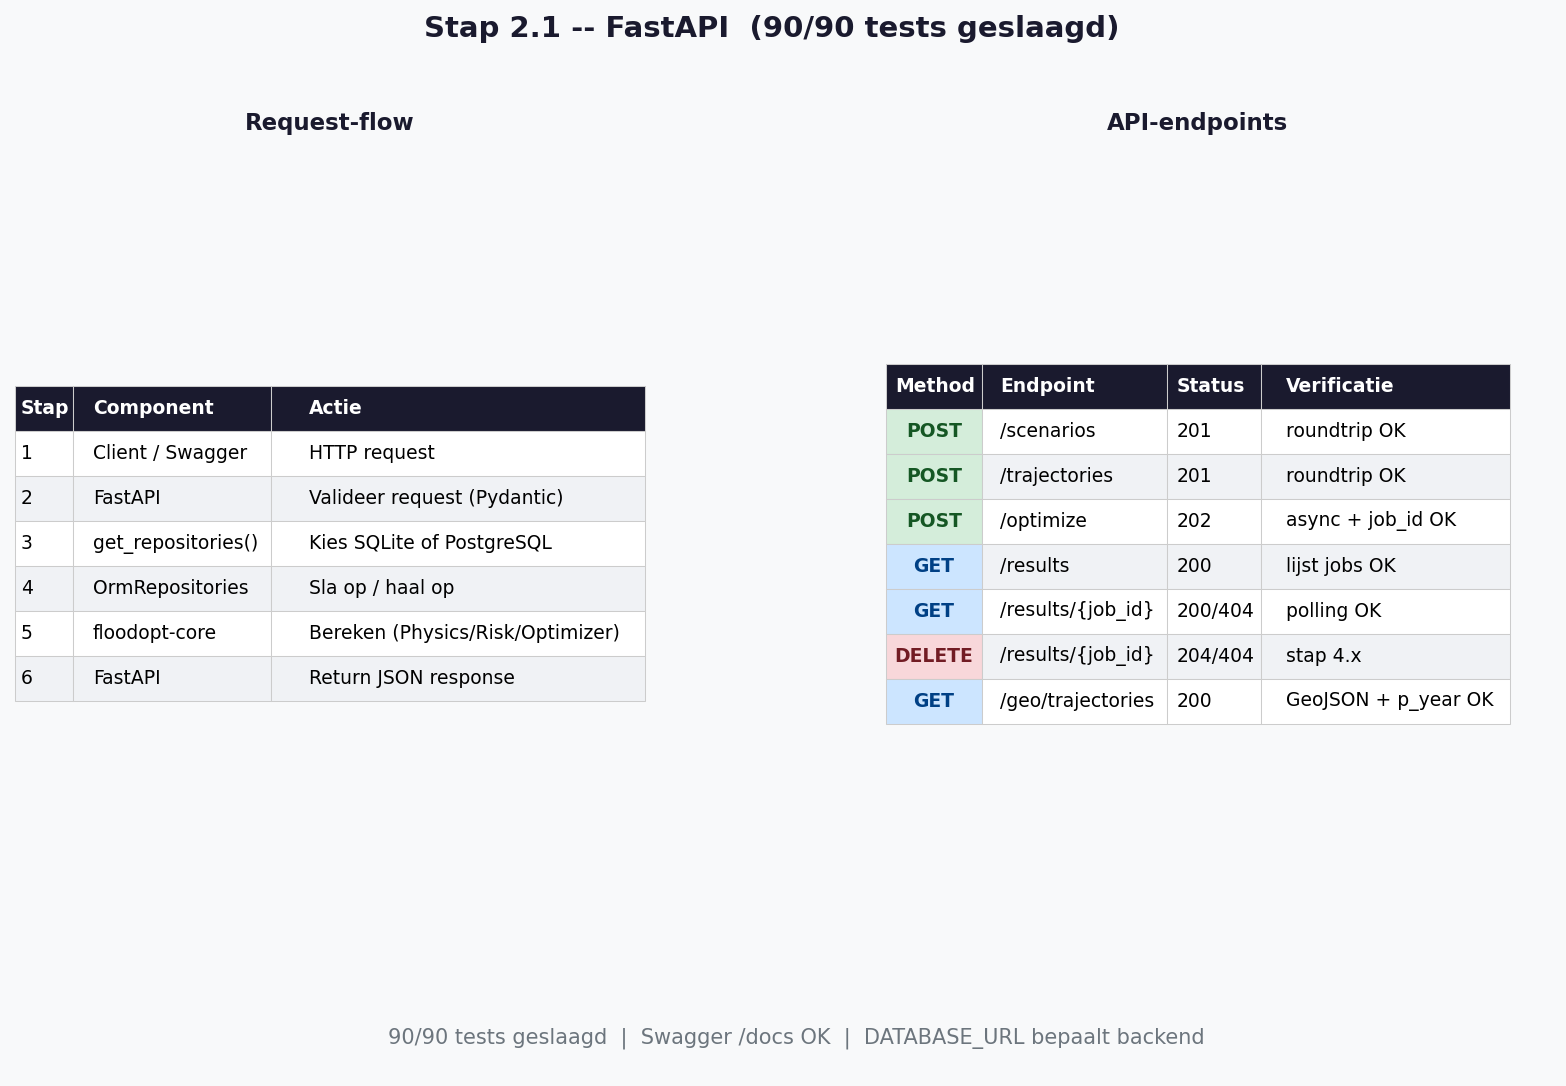
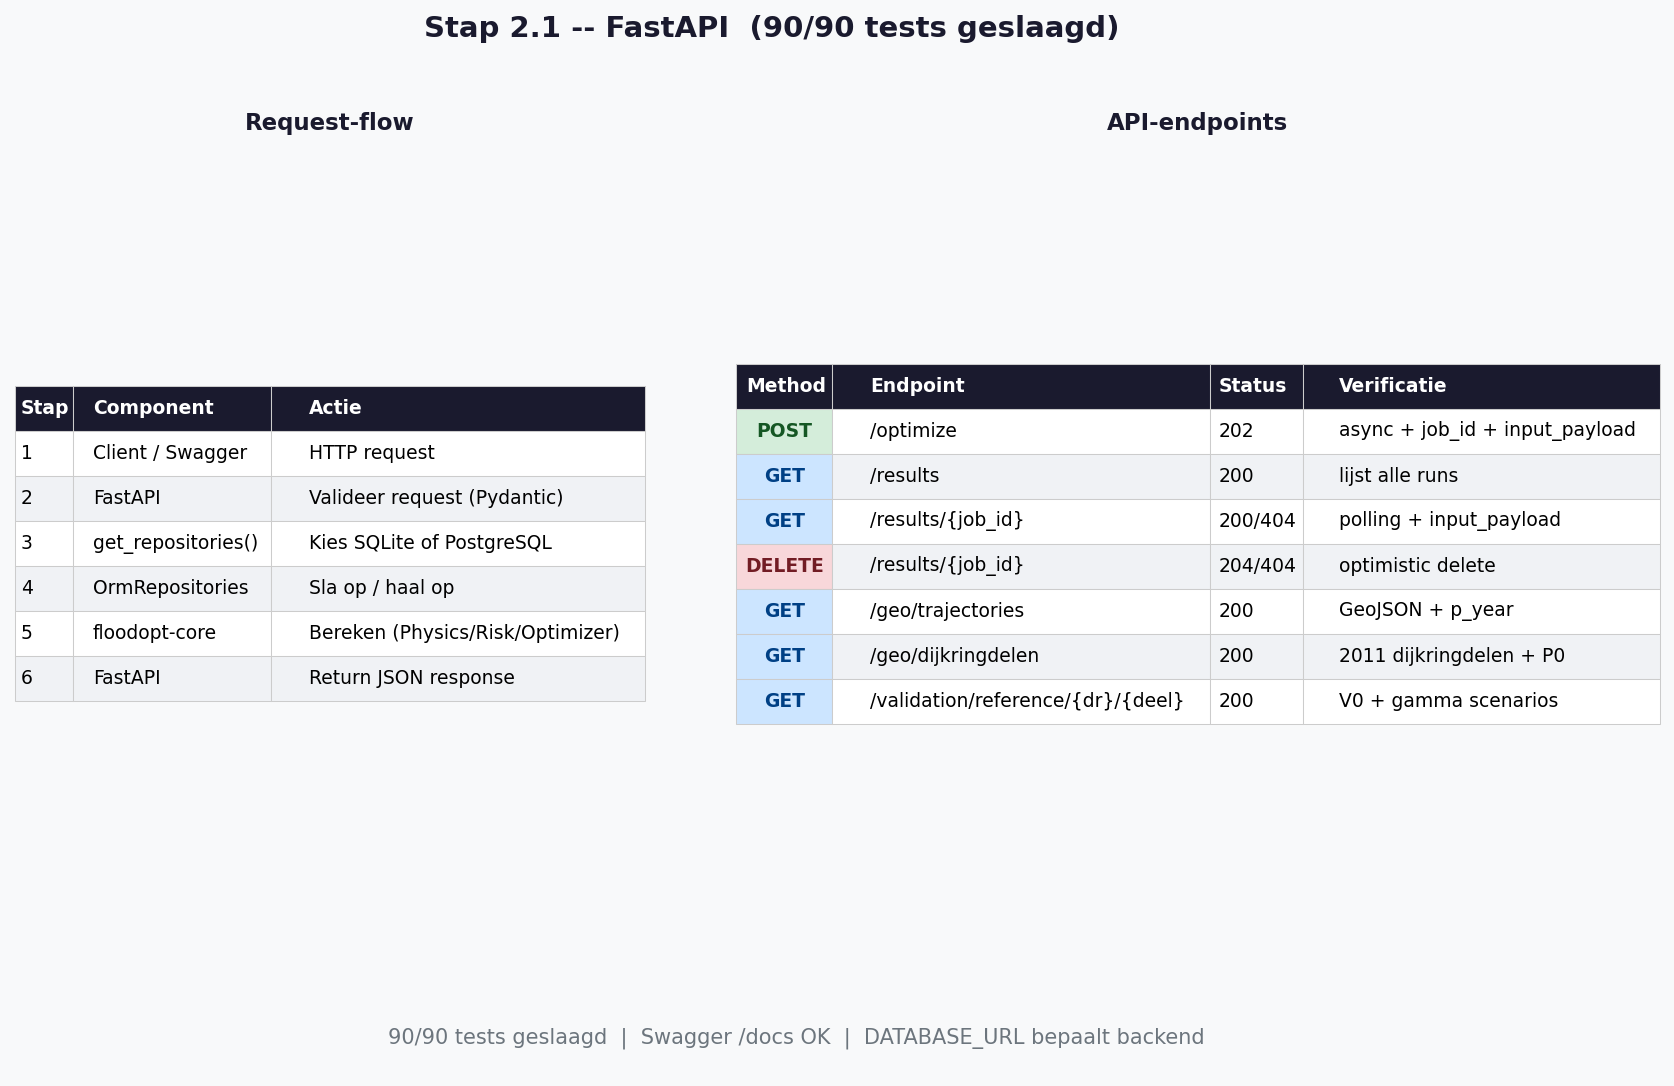
Update docs: stap 4.7 en 4.8 gedocumenteerd, diagrammen bijgewerkt
development_log:
- Stap 4.7: Dashboard herontworpen (kaartlayout, Runs pagina,
  OptimizeModal, V0/gamma uit database, dijkringdelen op kaart)
- Stap 4.8: Results compleet (input_payload opgeslagen, alle invoer-
  parameters zichtbaar, Opnieuw-knoppen, optimistic delete, 204-fix)
- Stap 4.9 (was 4.7): normtraject-bundel (gepland)

README:
- Fasering bijgewerkt: 4.1-4.8 klaar
- Implementatiestatus: V0 en gamma als geimplementeerd gemarkeerd
- Stap 4.7 en 4.8 beschreven in stappenplan

Docs/diagrammen:
- stap2.1_api.png: nieuwe endpoints (DELETE, geo/dijkringdelen, validation/reference)
- stap4_frontend.png: stap 4.1-4.8 overzicht
- architecture.png: footer bijgewerkt

90/90 tests groen.

diff --git a/scripts/generate_docs.py b/scripts/generate_docs.py
@@ -194,7 +194,7 @@ def make_architecture() -> None:
     ax_txt.text(
         0.5,
         0.15,
-        "Fase 1+2+4 (stap 4.1-4.4) klaar -- 90/90 tests.  "
+        "Fase 1+2+4 (stap 4.1-4.8) klaar -- 90/90 tests.  "
         "start.bat: Redis + FastAPI + Celery + Vite (4 terminals).",
         ha="center",
         va="center",
@@ -890,13 +890,13 @@ def make_api() -> None:
     ax_r.set_title("API-endpoints", fontsize=11, fontweight="bold", color=DARK, pad=8)
 
     endpoint_rows = [
-        ["POST", "/scenarios", "201", "roundtrip OK"],
-        ["POST", "/trajectories", "201", "roundtrip OK"],
-        ["POST", "/optimize", "202", "async + job_id OK"],
-        ["GET", "/results", "200", "lijst jobs OK"],
-        ["GET", "/results/{job_id}", "200/404", "polling OK"],
-        ["DELETE", "/results/{job_id}", "204/404", "stap 4.x"],
-        ["GET", "/geo/trajectories", "200", "GeoJSON + p_year OK"],
+        ["POST", "/optimize", "202", "async + job_id + input_payload"],
+        ["GET", "/results", "200", "lijst alle runs"],
+        ["GET", "/results/{job_id}", "200/404", "polling + input_payload"],
+        ["DELETE", "/results/{job_id}", "204/404", "optimistic delete"],
+        ["GET", "/geo/trajectories", "200", "GeoJSON + p_year"],
+        ["GET", "/geo/dijkringdelen", "200", "2011 dijkringdelen + P0"],
+        ["GET", "/validation/reference/{dr}/{deel}", "200", "V0 + gamma scenarios"],
     ]
 
     tbl_r = ax_r.table(
@@ -1549,12 +1549,12 @@ def make_frontend() -> None:
 
     stap_rows = [
         ["4.1", "Scaffold", "Vite + React + Tailwind + TanStack Query + CORS"],
-        ["4.1", "OptimizeForm", "POST /optimize + Results-pagina met polling"],
-        ["4.2", "Kaart", "GeoJSON in SQLite, GET /geo/trajectories, Leaflet"],
-        ["4.2", "Geometrie", "Trajectory.geometry veld, Rijnmond-voorbeeld"],
-        ["4.3", "Job-overzicht", "GET /results lijst, JobList + auto-polling"],
+        ["4.2", "Kaart + geometrie", "GeoJSON SQLite, Leaflet, P-klasse kleurcodering"],
+        ["4.3–4.5", "Job-overzicht + delete", "GET /results, polling, optimistic delete"],
         ["4.4", "P(t)-grafiek", "compute_p_series: P + Pmidden per epoch"],
-        ["4.4", "Kleurkaart", "P(2050)-klasse conform OptimaliseRing"],
+        ["4.6", "Validatie + V0/gamma", "2011-DB: scenario-selectie V0 en gamma"],
+        ["4.7", "Dashboard + Runs", "Kaartlayout, TrajectoryPanel, RunsPage, OptimizeModal"],
+        ["4.8", "Results compleet", "input_payload opgeslagen, Opnieuw-knoppen"],
     ]
 
     tbl_r = ax_r.table(
@@ -1572,8 +1572,8 @@ def make_frontend() -> None:
     ax_foot.text(
         0.5,
         0.5,
-        "Tech: Vite 8 + React 19 + TypeScript + Tailwind v4 + "
-        "TanStack Query + react-leaflet + Recharts  |  Dev proxy: /api -> localhost:8000",
+        "Tech: Vite + React 19 + TypeScript + Tailwind v4 + TanStack Query + "
+        "react-leaflet + Recharts  |  Stap 4.1-4.8 klaar",
         ha="center",
         va="center",
         fontsize=9,

diff --git a/development_log.md b/development_log.md
@@ -563,7 +563,68 @@ Zie: `docs/stap4_frontend.png`
 
 ---
 
-### Stap 4.7 — Dijkring-niveau ⏳ (gepland)
+### Stap 4.7 — Dashboard herontworpen + Runs pagina + OptimizeModal ✓ (2026-06-02)
+
+#### Dashboard
+
+- **Volledige kaartlayout**: kaart vult het volledige centrale gebied (`flex-1`, `h-full`)
+- **Links paneel** (256 px): kaartlegenda met 9 P₀-klassen conform OptimaliseRing
+- **Rechts paneel** (320 px, conditioneel bij klik): trajectdetails, gefilterde runs voor het geselecteerde dijkringdeel, knoppen om nieuwe berekeningen te starten
+- **Dijkringdelen op kaart**: `dijkringdelen.shp` (RD New → WGS84) gekleurd op P₀ via `GET /geo/dijkringdelen`; klik opent rechter paneel met alle beschikbare trajecten en historische runs
+
+#### Runs pagina (`/runs`)
+
+- Volledige tabel alle optimalisatieruns — nieuwste eerst
+- Kolommen: traject, doelfunctie, solver, resultaat [M EUR], status, job-id, verwijder
+- Vervangt de tabbladen-aanpak; "Optimaliseren" verdwenen als globale tab
+
+#### OptimizeModal
+
+Wanneer de gebruiker een traject kiest in het rechter paneel:
+1. Haalt referentiedata op: `GET /validation/reference/{dijkring}/{deel}`
+2. Toont scenario-keuzescherm: V₀ (Laag/Verwacht/Hoog) + γ (7 CPB-scenario's)
+3. Navigeert naar `OptimizeForm` met volledige prefill (traject, scenario, kandidaatmaatregelen, risicoparameters)
+
+#### V₀ en γ uit database ✓
+
+- `GET /validation/reference/{dijkring}/{deel}`: retourneert alle schade- en economische scenario's
+- `ScenarioVoorHoeveelheidSchadeData.Schade` [M EUR]: V₀ voor Laag/Verwacht/Hoog
+- `EconomischScenarioData.Gamma`: γ voor 7 CPB WLO-scenario's (RC, SE, TM, GE, ...)
+- Geen schattingen meer — alle waarden rechtstreeks uit de 2011-database
+
+---
+
+### Stap 4.8 — Results-pagina compleet + invoerparameters opgeslagen ✓ (2026-06-02)
+
+#### input_payload in database
+
+- `OptimizationResultORM.input_payload` (JSON-kolom, migratie idempotent)
+- `POST /optimize` slaat payload direct op bij pending-status
+- Worker slaat payload ook op bij done-status
+- Bevat: volledige trajectory, scenario, candidates, risk_params, objective, solver
+
+#### Results-pagina
+
+Twee kolommen + volle breedte:
+
+| Sectie | Inhoud |
+|---|---|
+| Links | Doelfunctie/solver, traject (P₀ α norm η basisjaar), klimaatscenario, risicoparameters (V₀ δ γ T) |
+| Rechts | Financieel resultaat (NCW, risico, investering), kandidaatmaatregelen-tabel (✓ = geselecteerd) |
+| Vol breedte | P(t)-zaagrandgrafiek (P, Pmidden, Pwet) |
+
+Twee actieknoppen:
+- **"Opnieuw ↺"** — zelfde instellingen, bijv. andere solver
+- **"Opnieuw met aanpassingen →"** — OptimizeForm met alle waarden pre-ingevuld
+
+#### Bugfixes
+
+- **Optimistic delete**: `useMutation` met `onMutate` verwijdert run direct uit TanStack Query-cache; geen zichtbare vertraging meer. Rollback bij API-fout.
+- **204 No Content**: `request()` in de fetch-client probeerde `res.json()` op een lege body (DELETE-response). Opgelost door te returnen op status 204.
+
+---
+
+### Stap 4.9 — Normtraject-bundel (vroeger: dijkring-niveau) ⏳ (gepland)
 
 Een normtraject-bundel (vroeger: dijkring) = verzameling trajecten met gedeelde optimalisatie.
 

diff --git a/README.md b/README.md
@@ -175,13 +175,13 @@ De OptimaliseRing 2011 SQLite is het testbed. Onderstaande tabel geeft aan wat a
 | P₀, α, η basisscenario (`v_trajecten_floodopt`, klimaat_id=1) | Physics, kaartkleur, formulier pre-fill |
 | Kostenfunctie λ, C, b (`v_kostenfunctie_floodopt`) | Kandidaatmaatregelen genereren bij pre-fill |
 | Dijkringdelen geometrie (`dijkringdelen.shp` → WGS84) | Kaart — gekleurde lijnen op P₀ |
+| V₀ (`ScenarioVoorHoeveelheidSchadeData.Schade` [M EUR]) | ScenarioPaneel: Laag/Verwacht/Hoog bij pre-fill |
+| γ (`EconomischScenarioData.Gamma`) | ScenarioPaneel: 7 CPB WLO-scenario's bij pre-fill |
 
 ### Niet geïmplementeerd
 
 | Prioriteit | Data | Impact |
 |---|---|---|
-| 🔴 | Schadeparameters Zeta/Nu/Psi (`v_schade_floodopt`) | V₀ hardcoded €1 mrd — **NCW incorrect** |
-| 🔴 | Economische groei γ (`EconomischScenarioData`) | γ hardcoded 2 % — **NCW incorrect** |
 | 🟡 | 18 klimaatscenario's (η per scenario) | Gebruiker voert η handmatig in |
 | 🟡 | Omega (onderhoudsfactor) in NCW | Jaarlijkse onderhoudskosten ontbreken |
 | 🟢 | BeginJaar 2015 vs hardcoded 2023 | Klein tijdsverschil |
@@ -214,7 +214,7 @@ Referentiedataset: `tests/validation/optimalise_ring_2011.sqlite` — afgeleid v
 | 1 — MVP rekenkernel | ✅ Klaar | Physics, Risk, Optimization, CLI smoke test |
 | 2 — Backend & API | ✅ Klaar | FastAPI, SQLite, Celery + Redis |
 | 3 — Uitbreidingen rekenkernel | ⏳ Gepland | FORM/Monte Carlo, lengte-effecten, rivierverruiming |
-| 4 — Frontend | 🚧 In uitvoering | 4.1–4.6 ✅ · 4.7 dijkring-niveau |
+| 4 — Frontend | 🚧 In uitvoering | 4.1–4.8 ✅ · 4.9 normtraject-bundel |
 | 5 — Data-actualisatie 2026 | ⏳ Gepland | NBPW WFS, WBI2023, KNMI 2023, HWBP, SSM2 |
 
 ---
@@ -352,7 +352,22 @@ OptimaliseRing-klasse-indeling (< 1/113.000 t/m > 1/800).
 - `ValidationDashboard` — dropdown dijkringen, trajectentabel, "Optimaliseer →" per rij
 - Navigeert naar `OptimizeForm` met pre-fill; P₀ altijd bewerkbaar vóór berekening
 
-#### Stap 4.7 ⏳ — Normtraject-bundel (vroeger: dijkring-niveau)
+#### Stap 4.7 ✅ — Dashboard herontworpen + Runs pagina + OptimizeModal
+
+- Kaart vult volledig centrale gebied; linker legenda-paneel; rechter trajectory-paneel bij klik
+- Dijkringdelen 2011 op kaart gekleurde lijnen (P₀, geometrie uit shapefile)
+- `GET /validation/reference/{dijkring}/{deel}`: V₀ (Laag/Verwacht/Hoog) en γ (7 CPB-scenario's) uit DB
+- OptimizeModal over de kaart (niet als tab): kiest scenario's, pre-fill OptimizeForm
+- Runs als volledige pagina in nav (`/runs`); "Optimaliseren" niet meer als globaal tabblad
+
+#### Stap 4.8 ✅ — Results-pagina compleet + invoerparameters opgeslagen
+
+- `input_payload` JSON-kolom in `optimization_results` — sla alle invoer op per run
+- Results: twee kolommen (traject/scenario/risicoparam links, financieel/maatregelen rechts) + P(t)-grafiek
+- Knoppen: "Opnieuw ↺" (zelfde instellingen) en "Opnieuw met aanpassingen →"
+- Optimistic delete (direct visueel, rollback bij fout); fix 204 No Content JSON-parse
+
+#### Stap 4.9 ⏳ — Normtraject-bundel (vroeger: dijkring-niveau)
 
 - `DijkRing` model: id, name, `trajectory_ids: list[str]`
 - `POST /dijkringen`, `GET /dijkringen`, `POST /optimize-dijkring`